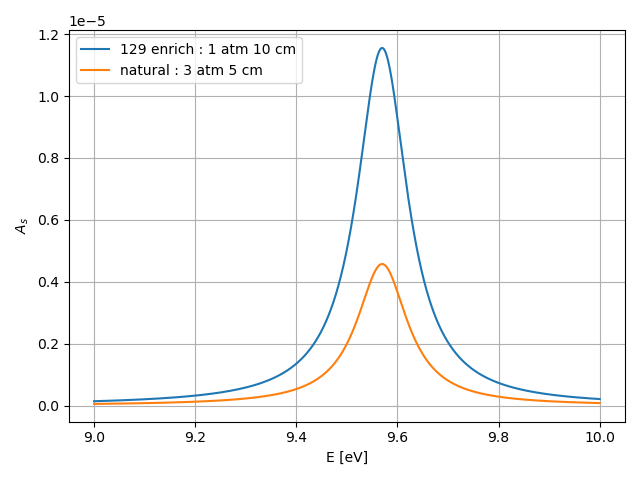
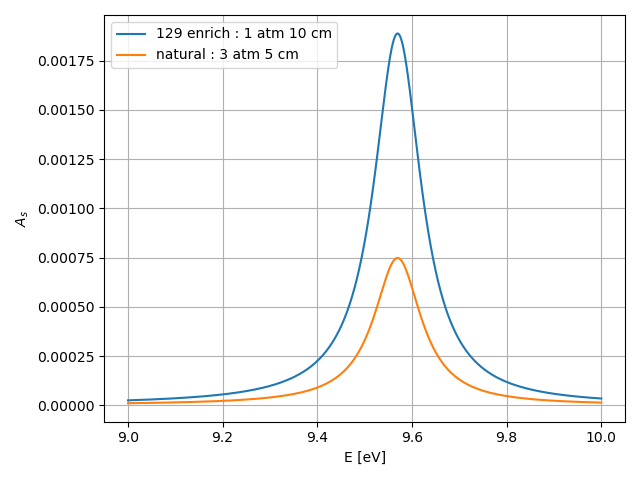
check analyzer T asymmetry

diff --git a/ImRe_func.py b/ImRe_func.py
@@ -101,6 +101,13 @@ def Poln(E):
     #return -math.tanh(const.p_He*const.rho_d_He*const.dSigma_He)
     return -math.tanh(const.p_He*const.rho_d_He*dSigma_He)
 
+def He_total(E):
+    p0 = 639.2
+    p1 = -71.97
+    p2 = 4.636
+    p3 = -0.1133
+    return (p0 + p1*E + p2*E**2 + p3*E**3)/10**28
+
 def Tasymm(E, Pol129):
     iIm_B = sigma_B(E, Pol129)
     iIm_B = iIm_B/10**28
@@ -120,8 +127,7 @@ def Tasymm_analyzer(E, Pol129, B_0, Xe_partial_pressure, Xe_d_cell):
     t_in_cell = const.d_cell/(437.4*math.sqrt(E*10**3))
     iIm_B = sigma_B(E, Pol129)
     iIm_B = iIm_B/10**28
-    iHe_sigma = He_sigma_A(E)
-    iHe_sigma = iHe_sigma/10**28
+    iHe_sigma = He_total(E)
     iOmega_pseud = Pol129*Omega_pseud(E)
     iOmega_zero = Omega_zero(B_0)
     #return math.tanh(const.num_129*iIm_B*const.d_cell + const.rho_d_He*const.p_He*iHe_sigma*math.sin(iOmega_pseud*t_in_cell)*math.sin(iOmega_zero*t_in_cell))*math.tanh(const.rho_d_He*const.p_He*iHe_sigma*(1 + math.cos(iOmega_pseud*t_in_cell)*math.cos(iOmega_zero*t_in_cell)))

diff --git a/PseudoMagDraw.py b/PseudoMagDraw.py
@@ -13,6 +13,7 @@ iB = np.linspace(-0.1, 0.1, 10000)
 #x = np.linspace(8.2, 11.0, 10000)
 
 A_s_enrich = []
+A_s_enrich1 = []
 A_s_nat = []
 
 for ix in x:
@@ -20,13 +21,18 @@ for ix in x:
     A_s_enrich.append(iA_s)
 
 for ix in x:
+    iA_s = func.Tasymm_analyzer(ix, 0.02, B_0, 1.0, 0.1)
+    A_s_enrich1.append(iA_s)
+
+for ix in x:
     iA_s = func.Tasymm_analyzer(ix, Pol129, B_0, 3.0*0.264, 0.05)
     A_s_nat.append(iA_s)
 
 fig, ax = plt.subplots()
 #ax.plot(x, func.Omega_pseud(x), label="$\omega_p$ [Hz]")
-ax.plot(x, A_s_enrich, label="129 enrich : 1 atm 10 cm")
-ax.plot(x, A_s_nat, label="natural : 3 atm 5 cm")
+ax.plot(x, A_s_enrich, label="129 enrich : 1% pol")
+ax.plot(x, A_s_enrich1, label="129 enrich : 2% pol")
+#ax.plot(x, A_s_nat, label="natural : 3 atm 5 cm")
 #ax.plot(x, func.B_pseudo(x), label="$B_p$ [T]")
 #ax.plot(iB, func.Omega_prime(E_0, iB, Pol129=0.01), label="$\omega_p'$ [Hz]")
 ax.set_xlabel("E [eV]")
